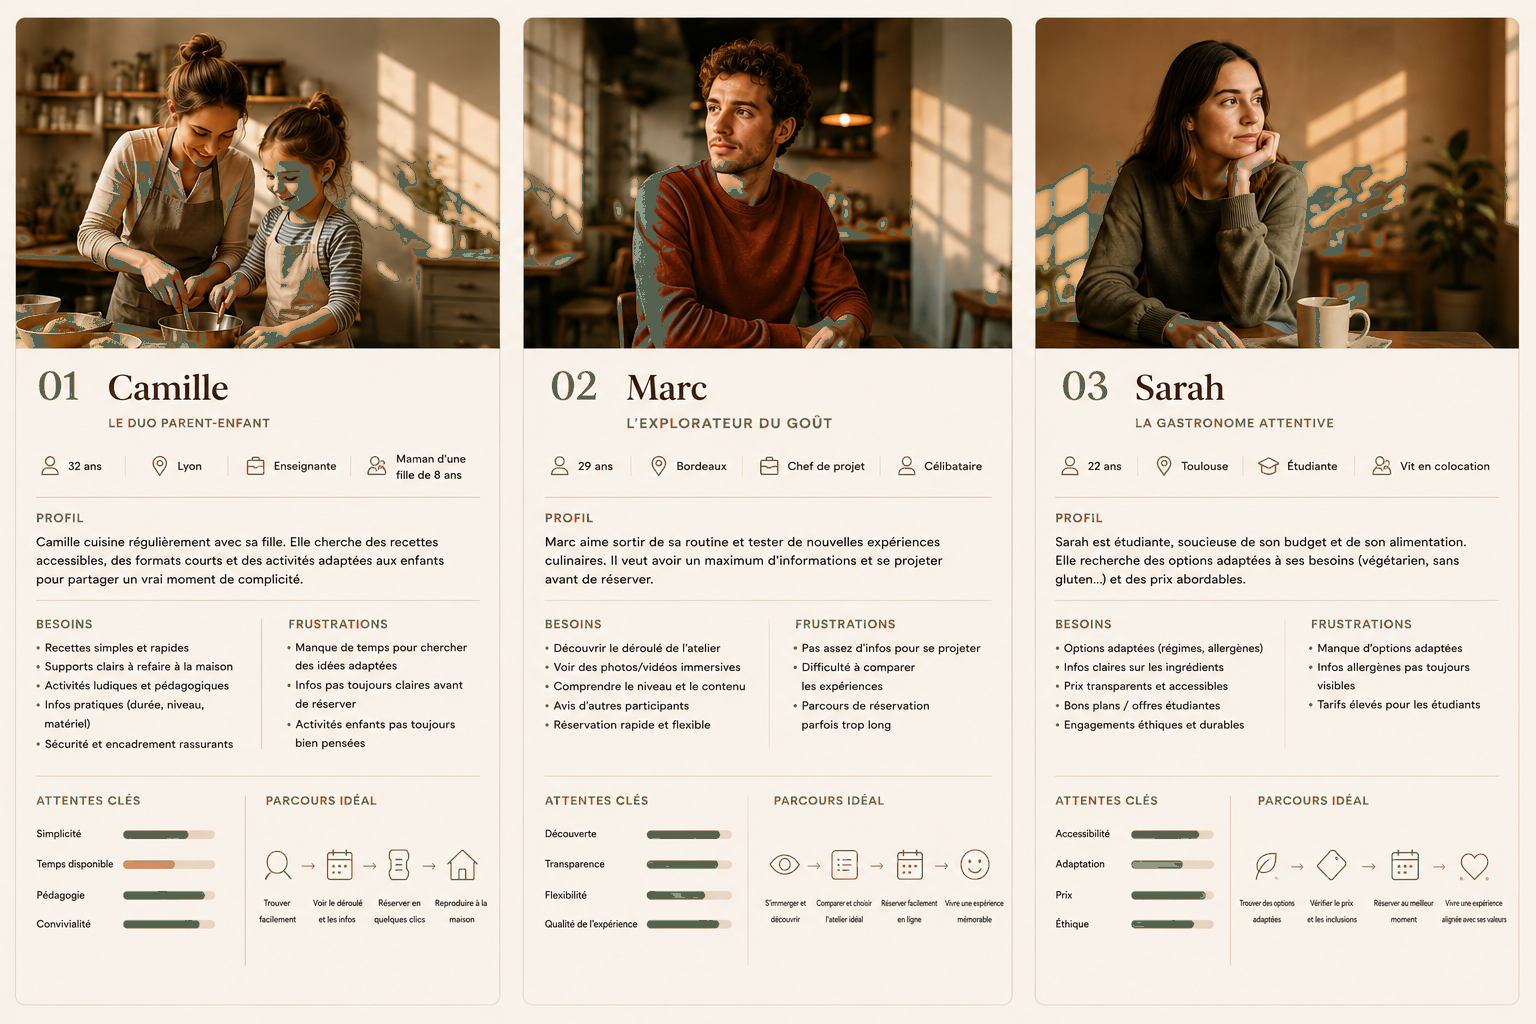
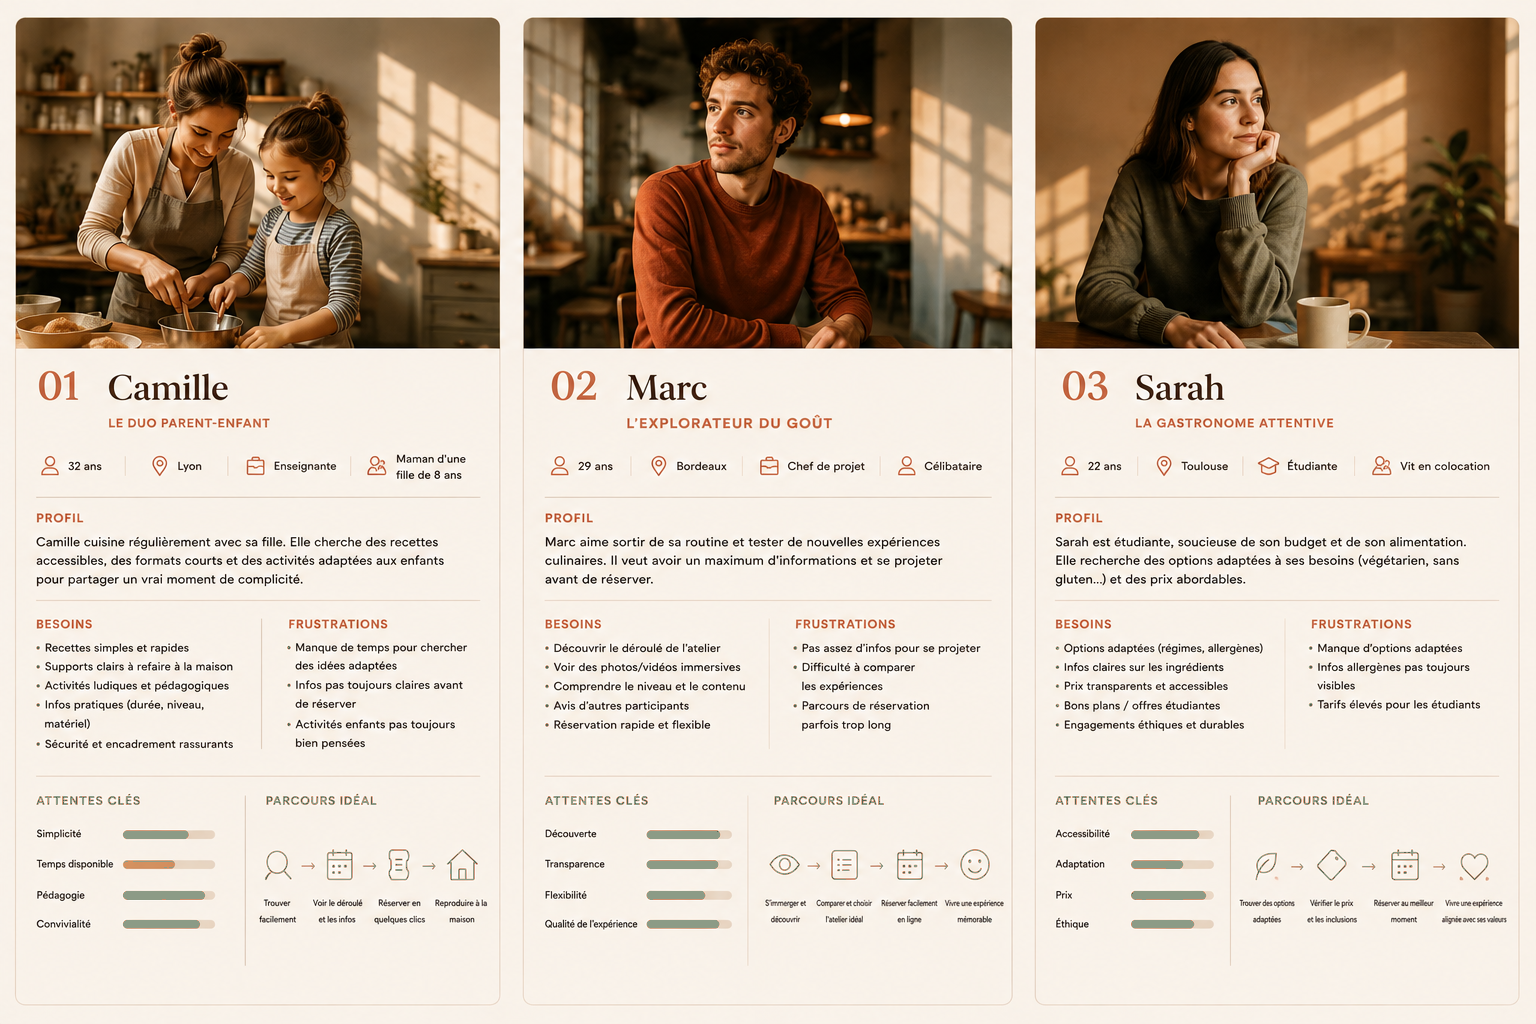
style(personas): recoloration chirurgicale - conservation absolue du terracotta sur numeros, noms, ligne separatrice et titres de sous-sections, conversion exacte des jauges (dont temps disponible) et pictos de jauges vers le Vert Sauge (#8C9B86 / #55624F)

diff --git a/index.html b/index.html
@@ -371,8 +371,8 @@
               <div class="lbc-v2-card" id="lbc-sec-2">
                 <h3 class="lbc-v2-card-title">Ce que j’ai cherché à comprendre</h3>
                 <p class="lbc-v2-card-body">Avant de dessiner quoi que ce soit, il fallait comprendre ce qui se passe <strong>une fois le cours terminé</strong> : ce que l’apprenant <strong>emporte réellement avec lui</strong>, ce qu’il <strong>risque d’oublier</strong> et surtout ce qui peut l’aider à <strong>continuer seul sans perdre l’élan</strong>.</p>
-                <div onclick="openLightbox('assets/PROJTS/CORDONS_BLEUS/personas_lcb.png?v=20260829_terracotta_gauges_recolored_to_sauge_v4', 'Planche des 3 Personas UX (Camille, Marc, Sarah) — Cliquer pour fermer ✕')" onkeydown="if(event.key==='Enter'||event.key===' ') openLightbox('assets/PROJTS/CORDONS_BLEUS/personas_lcb.png?v=20260829_terracotta_gauges_recolored_to_sauge_v4', 'Planche des 3 Personas UX (Camille, Marc, Sarah) — Cliquer pour fermer ✕')" role="button" tabindex="0" aria-label="Agrandir la planche des Personas UX Les Cordons Bleus en plein écran" title="🔍 Cliquer pour agrandir en plein écran" class="lbc-v2-personas-wrapper">
-                  <img src="assets/PROJTS/CORDONS_BLEUS/personas_lcb.png?v=20260829_terracotta_gauges_recolored_to_sauge_v4" alt="Personas UX Les Cordons Bleus (Camille, Marc, Sarah)" class="lbc-v2-personas-img">
+                <div onclick="openLightbox('assets/PROJTS/CORDONS_BLEUS/personas_lcb.png?v=20260829_surgical_sauge_gauges_v5', 'Planche des 3 Personas UX (Camille, Marc, Sarah) — Cliquer pour fermer ✕')" onkeydown="if(event.key==='Enter'||event.key===' ') openLightbox('assets/PROJTS/CORDONS_BLEUS/personas_lcb.png?v=20260829_surgical_sauge_gauges_v5', 'Planche des 3 Personas UX (Camille, Marc, Sarah) — Cliquer pour fermer ✕')" role="button" tabindex="0" aria-label="Agrandir la planche des Personas UX Les Cordons Bleus en plein écran" title="🔍 Cliquer pour agrandir en plein écran" class="lbc-v2-personas-wrapper">
+                  <img src="assets/PROJTS/CORDONS_BLEUS/personas_lcb.png?v=20260829_surgical_sauge_gauges_v5" alt="Personas UX Les Cordons Bleus (Camille, Marc, Sarah)" class="lbc-v2-personas-img">
                   <span class="lbc-v2-personas-zoom-badge">🔍 Cliquer pour agrandir</span>
                 </div>
                 <p class="lbc-v2-card-body" style="margin-top: 14px; font-size: 13.5px; line-height: 1.5; color: #5C5248;">Ces profils m’ont servi de <strong>repères de conception</strong> : des besoins, des contraintes et des niveaux d’autonomie différents à confronter tout au long du projet.</p>

diff --git a/projet-cordons-bleus.html b/projet-cordons-bleus.html
@@ -189,8 +189,8 @@
           <div class="lbc-v2-card" id="lbc-sec-2">
             <h3 class="lbc-v2-card-title">Ce que j’ai cherché à comprendre</h3>
             <p class="lbc-v2-card-body">Avant de dessiner quoi que ce soit, il fallait comprendre ce qui se passe <strong>une fois le cours terminé</strong> : ce que l’apprenant <strong>emporte réellement avec lui</strong>, ce qu’il <strong>risque d’oublier</strong> et surtout ce qui peut l’aider à <strong>continuer seul sans perdre l’élan</strong>.</p>
-            <div onclick="openLightbox('assets/PROJTS/CORDONS_BLEUS/personas_lcb.png?v=20260829_terracotta_gauges_recolored_to_sauge_v4', 'Planche des 3 Personas UX (Camille, Marc, Sarah) — Cliquer pour fermer ✕')" title="🔍 Cliquer pour agrandir en plein écran" class="lbc-v2-personas-wrapper">
-              <img src="assets/PROJTS/CORDONS_BLEUS/personas_lcb.png?v=20260829_terracotta_gauges_recolored_to_sauge_v4" alt="Personas UX Les Cordons Bleus (Camille, Marc, Sarah)" class="lbc-v2-personas-img">
+            <div onclick="openLightbox('assets/PROJTS/CORDONS_BLEUS/personas_lcb.png?v=20260829_surgical_sauge_gauges_v5', 'Planche des 3 Personas UX (Camille, Marc, Sarah) — Cliquer pour fermer ✕')" title="🔍 Cliquer pour agrandir en plein écran" class="lbc-v2-personas-wrapper">
+              <img src="assets/PROJTS/CORDONS_BLEUS/personas_lcb.png?v=20260829_surgical_sauge_gauges_v5" alt="Personas UX Les Cordons Bleus (Camille, Marc, Sarah)" class="lbc-v2-personas-img">
               <span class="lbc-v2-personas-zoom-badge">🔍 Cliquer pour agrandir</span>
             </div>
             <p class="lbc-v2-card-body" style="margin-top: 14px; font-size: 13.5px; line-height: 1.5; color: #5C5248;">Ces profils m’ont servi de <strong>repères de conception</strong> : des besoins, des contraintes et des niveaux d’autonomie différents à confronter tout au long du projet.</p>
